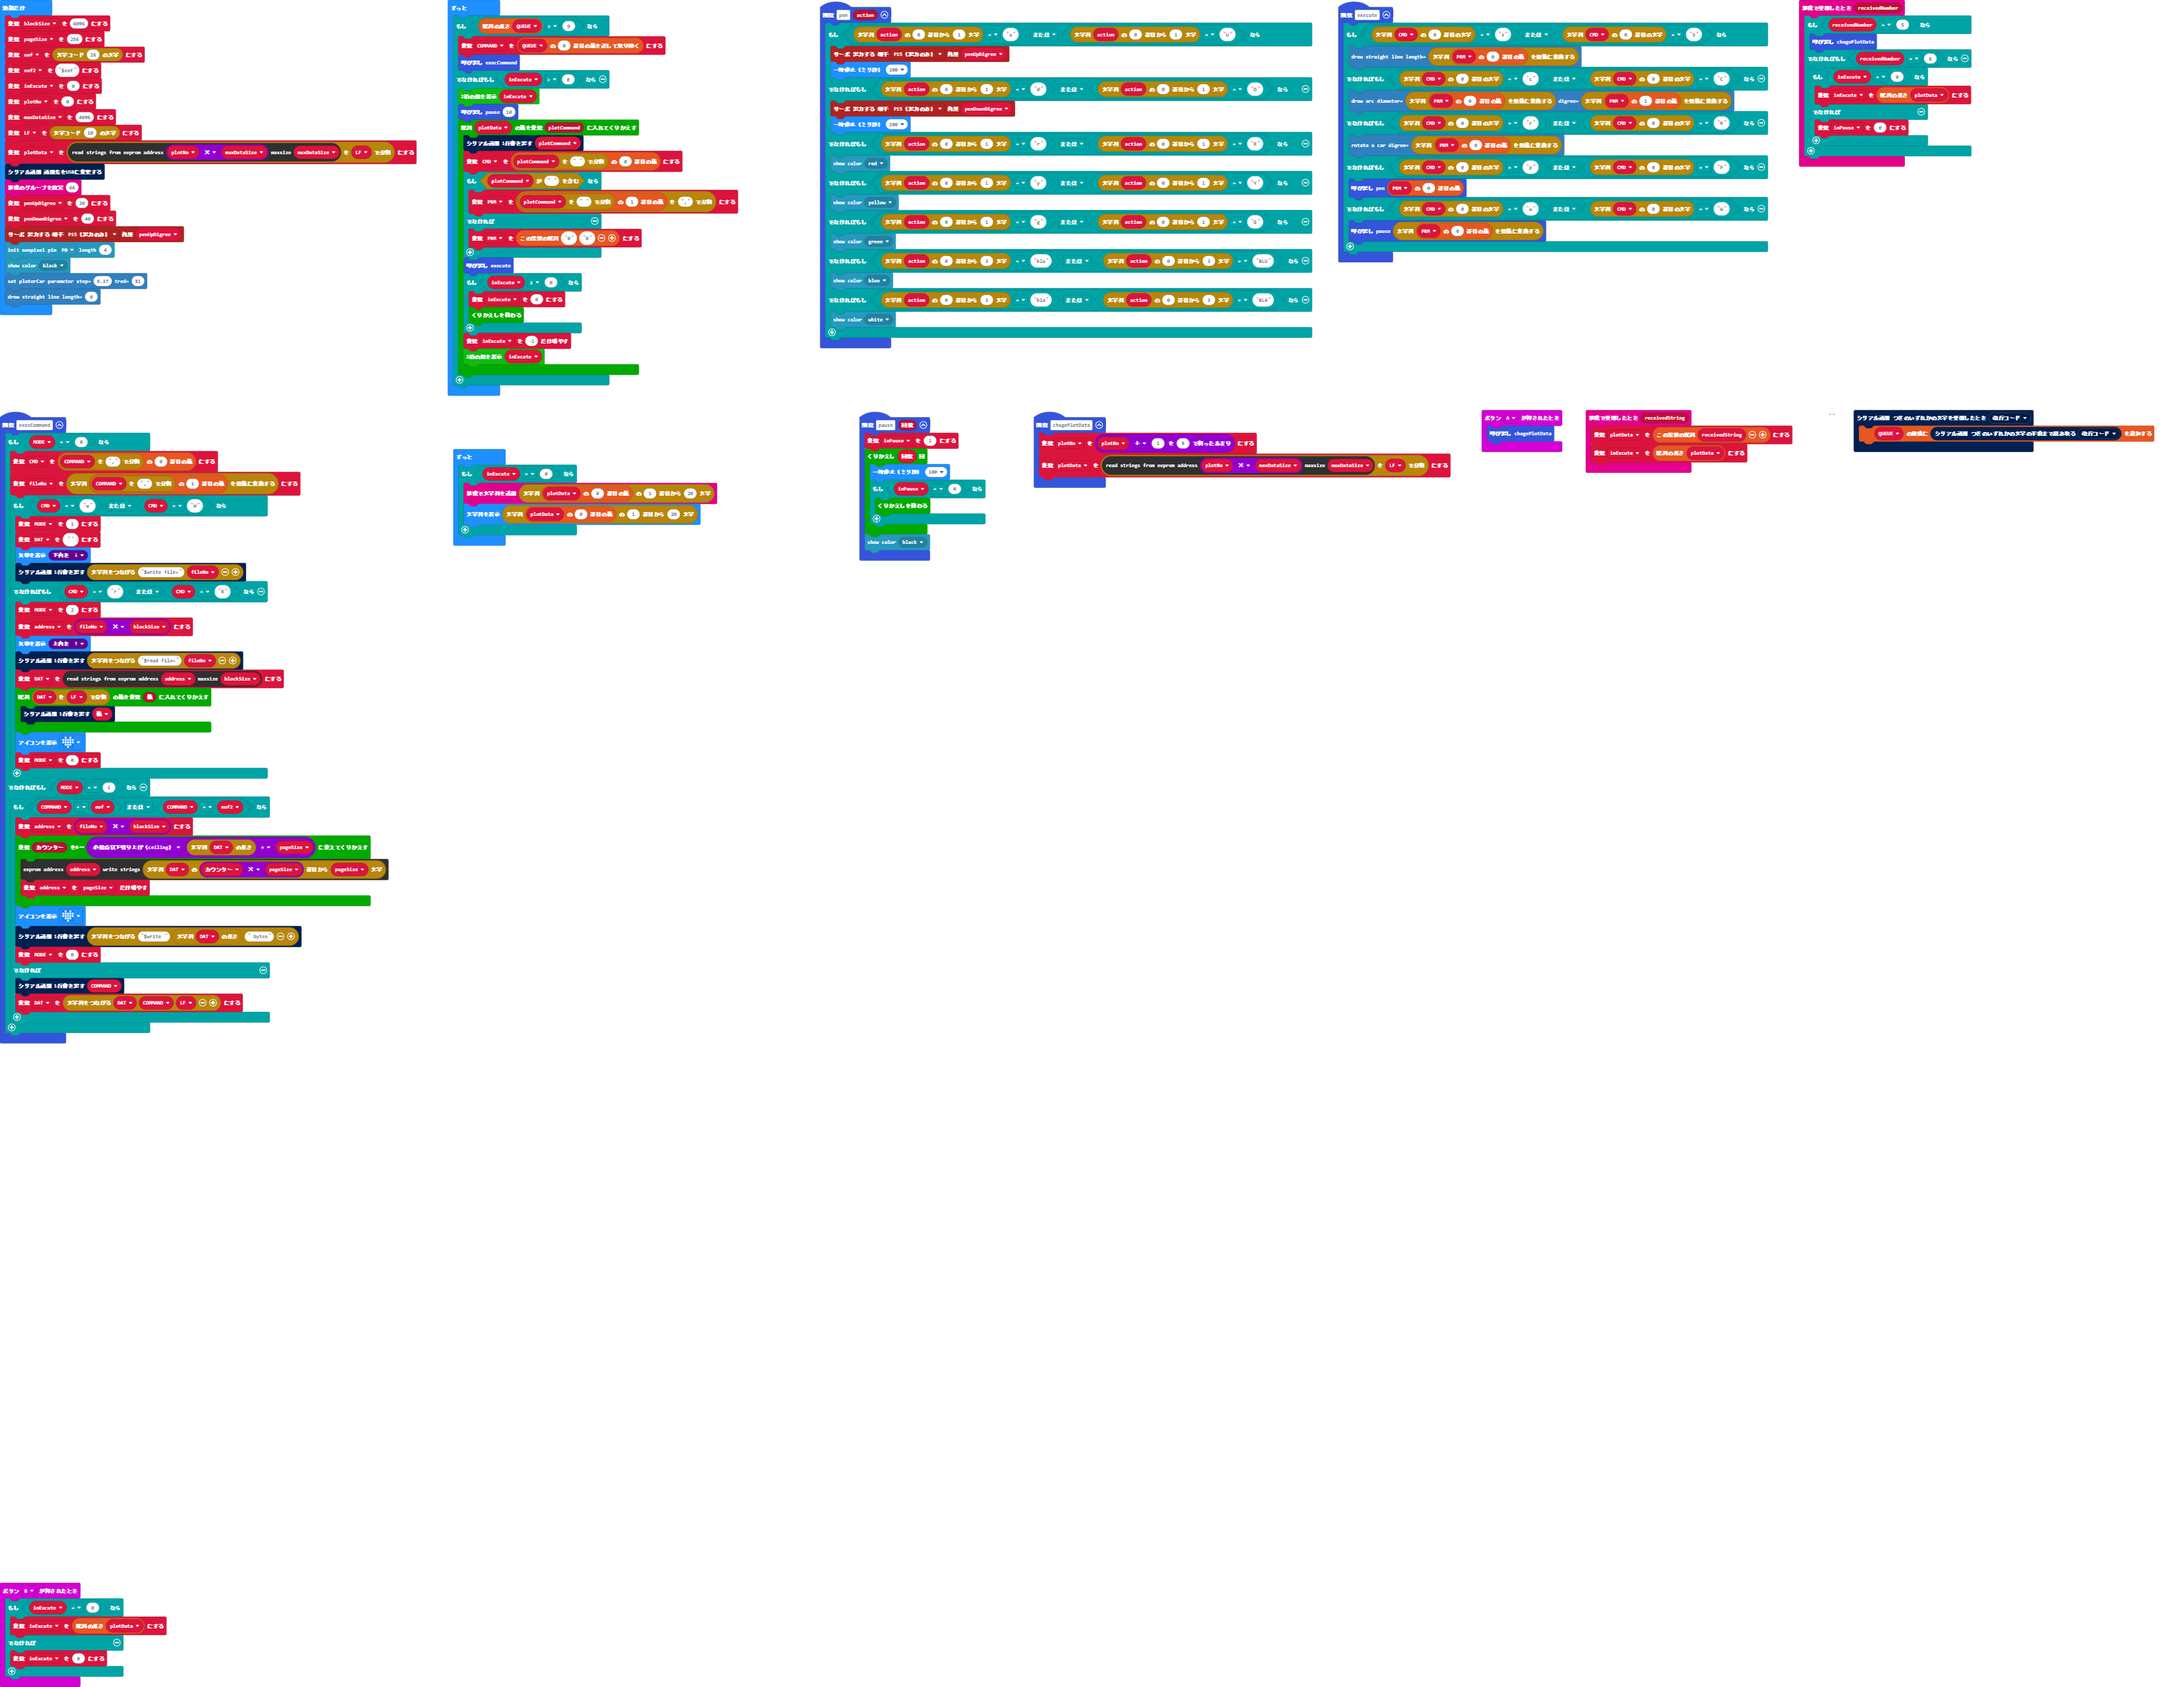
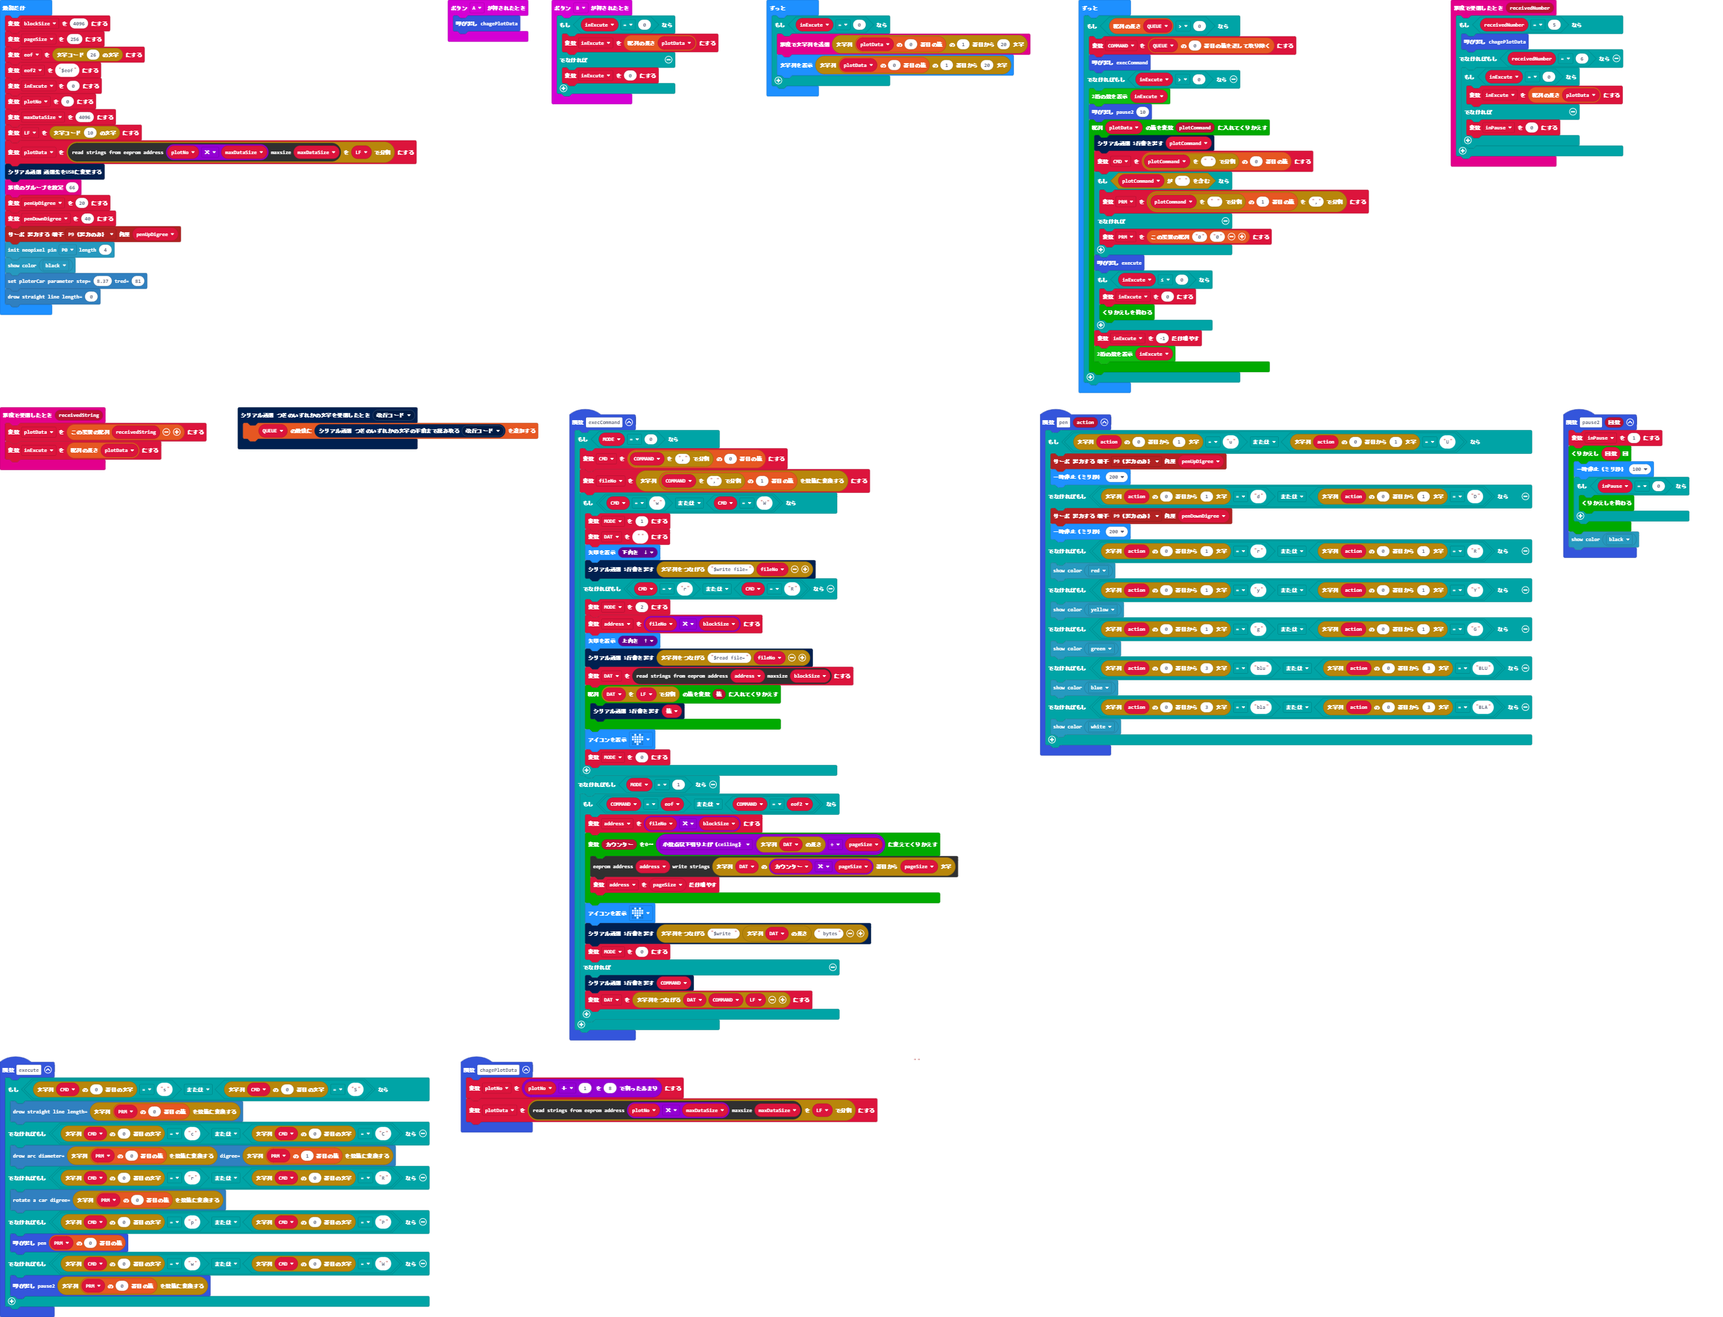
更新 pxt.json, main.blocks, main.ts

diff --git a/main.ts b/main.ts
@@ -1,3 +1,13 @@
+function pause2 (回数: number) {
+    inPause = 1
+    for (let index = 0; index < 回数; index++) {
+        basic.pause(100)
+        if (inPause == 0) {
+            break;
+        }
+    }
+    neopixelLight.showColor(neopixelLight.colors(neopixelLight.Colors.Black))
+}
 radio.onReceivedNumber(function (receivedNumber) {
     if (receivedNumber == 5) {
         chagePlotData()
@@ -15,36 +25,26 @@ function chagePlotData () {
 }
 function pen (action: string) {
     if (action.substr(0, 1) == "u" || action.substr(0, 1) == "U") {
-        pins.servoWritePin(AnalogPin.P15, penUpDigree)
+        pins.servoWritePin(AnalogPin.P9, penUpDigree)
         basic.pause(200)
     } else if (action.substr(0, 1) == "d" || action.substr(0, 1) == "D") {
-        pins.servoWritePin(AnalogPin.P15, penDownDigree)
+        pins.servoWritePin(AnalogPin.P9, penDownDigree)
         basic.pause(200)
     } else if (action.substr(0, 1) == "r" || action.substr(0, 1) == "R") {
-        neopixel.showColor(neopixel.colors(neopixel.Colors.Red))
+        neopixelLight.showColor(neopixelLight.colors(neopixelLight.Colors.Red))
     } else if (action.substr(0, 1) == "y" || action.substr(0, 1) == "Y") {
-        neopixel.showColor(neopixel.colors(neopixel.Colors.Yellow))
+        neopixelLight.showColor(neopixelLight.colors(neopixelLight.Colors.Yellow))
     } else if (action.substr(0, 1) == "g" || action.substr(0, 1) == "G") {
-        neopixel.showColor(neopixel.colors(neopixel.Colors.Green))
+        neopixelLight.showColor(neopixelLight.colors(neopixelLight.Colors.Green))
     } else if (action.substr(0, 3) == "blu" || action.substr(0, 3) == "BLU") {
-        neopixel.showColor(neopixel.colors(neopixel.Colors.Blue))
+        neopixelLight.showColor(neopixelLight.colors(neopixelLight.Colors.Blue))
     } else if (action.substr(0, 3) == "bla" || action.substr(0, 3) == "BLA") {
-        neopixel.showColor(neopixel.colors(neopixel.Colors.White))
+        neopixelLight.showColor(neopixelLight.colors(neopixelLight.Colors.White))
     }
 }
 input.onButtonPressed(Button.A, function () {
     chagePlotData()
 })
-function pause2 (回数: number) {
-    inPause = 1
-    for (let index = 0; index < 回数; index++) {
-        basic.pause(100)
-        if (inPause == 0) {
-            break;
-        }
-    }
-    neopixel.showColor(neopixel.colors(neopixel.Colors.Black))
-}
 serial.onDataReceived(serial.delimiters(Delimiters.NewLine), function () {
     QUEUE.push(serial.readUntil(serial.delimiters(Delimiters.NewLine)))
 })
@@ -142,11 +142,17 @@ serial.redirectToUSB()
 radio.setGroup(66)
 penUpDigree = 20
 penDownDigree = 40
-pins.servoWritePin(AnalogPin.P15, penUpDigree)
-neopixel.initNeopixel(DigitalPin.P0, 4)
-neopixel.showColor(neopixel.colors(neopixel.Colors.Black))
+pins.servoWritePin(AnalogPin.P9, penUpDigree)
+neopixelLight.initNeopixel(DigitalPin.P0, 4)
+neopixelLight.showColor(neopixelLight.colors(neopixelLight.Colors.Black))
 plotterCar.setParameter(8.37, 81)
 plotterCar.Straight(0)
+basic.forever(function () {
+    if (inExcute == 0) {
+        radio.sendString(plotData[0].substr(1, 20))
+        basic.showString(plotData[0].substr(1, 20))
+    }
+})
 basic.forever(function () {
     if (QUEUE.length > 0) {
         COMMAND = QUEUE.removeAt(0)
@@ -170,11 +176,5 @@ basic.forever(function () {
             inExcute += -1
             watchfont.showNumber2(inExcute)
         }
-    }
-})
-basic.forever(function () {
-    if (inExcute == 0) {
-        radio.sendString(plotData[0].substr(1, 20))
-        basic.showString(plotData[0].substr(1, 20))
     }
 })
